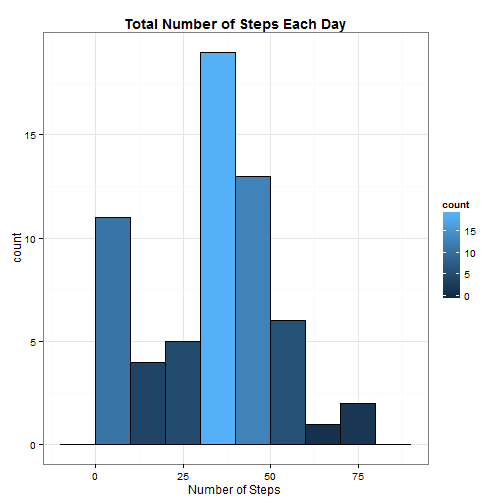
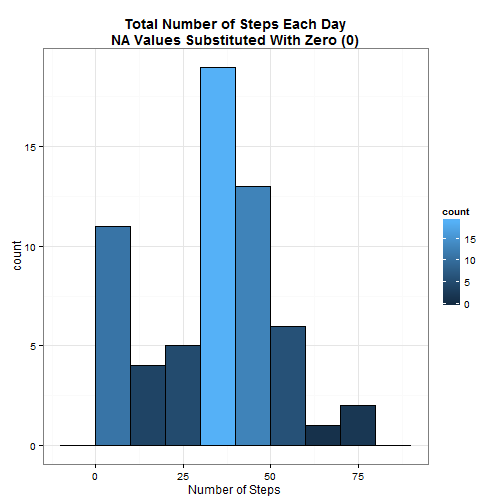
update to grid.arrange

diff --git a/PA1_template.html b/PA1_template.html
@@ -192,13 +192,13 @@ Specialization, offered by Johns Hopkins Bloomberg School of Public Health. The 
 <p>This assignment makes use of data from a personal activity monitoring device. This device collects data at 5 minute intervals through out the day. The data consists of two months of data from an anonymous individual collected during the months of October and November, 2012 and include the number of steps taken in 5 minute intervals each day.</p>
 </blockquote>
 
-<p>The data is provided from this <a href="https://d396qusza40orc.cloudfront.net/repdata%2Fdata%2Factivity.zip">link</a> and was downloaded and extracted to the following directory</p>
+<p>The data set was downloaded from this <a href="https://d396qusza40orc.cloudfront.net/repdata%2Fdata%2Factivity.zip">link</a> and was extracted to the following directory:</p>
 
 <ul>
 <li><code>./data/temp/repdata/</code> </li>
 </ul>
 
-<p>relative to the working directory, with the file named as</p>
+<p>relative to the working directory, with the file named as:</p>
 
 <ul>
 <li><code>activity.csv</code><br/></li>
@@ -206,7 +206,7 @@ Specialization, offered by Johns Hopkins Bloomberg School of Public Health. The 
 
 <p>The file <strong>PA1_template.Rmd</strong> was created and is located in that directory path. </p>
 
-<p>The working environment used is </p>
+<p>The working environment used is: </p>
 
 <ul>
 <li>Windows 7, Service Pack 1 (64 bit)</li>
@@ -216,12 +216,16 @@ Specialization, offered by Johns Hopkins Bloomberg School of Public Health. The 
 
 <h2>Libraries</h2>
 
-<p>Only one library was added for this assignment, which is the <strong>ggplot2</strong> graphics library:</p>
+<p>2 libraries were added for this assignment, which is the <strong>ggplot2</strong> graphics library and the <strong>gridExtra</strong> library:</p>
 
 <pre><code class="r">library(ggplot2)
+library(gridExtra)
 </code></pre>
 
-<p>All plots created in this assignment are <strong>ggplot2</strong> plots, consisting of histograms and time series plots.</p>
+<pre><code>## Loading required package: grid
+</code></pre>
+
+<p>All plots created in this assignment are <strong>ggplot2</strong> plots, consisting of histograms and time series plots.  The <strong>gridExtra</strong> library package allows for grid arrangement of multiple plots created with <strong>ggplot2</strong>.</p>
 
 <h2>Loading the Data</h2>
 
@@ -258,19 +262,22 @@ theData$date &lt;- as.Date(theData$date)
 
 <h2>Answering the Questions</h2>
 
-<p>The assignment consists of 4 sections, each with question(s) to answer with exploratory data analysys, using the downloaded CSV file.</p>
+<p>The following consists of 4 (IV) sections, each with question(s) to answer with exploratory data analysys, using and manipulating the downloaded CSV file.</p>
 
 <h3>I. What is mean total number of steps taken per day?</h3>
 
 <pre><code class="r">histData &lt;- tapply(theData$steps, theData$date, FUN=mean)
+
+p1 &lt;-
 ggplot(as.data.frame(histData), aes(histData)) + 
     geom_histogram(binwidth=10, color=&quot;black&quot;, aes(fill= ..count..)) + 
     theme_bw() + xlab(&quot;Number of Steps&quot;) + 
-    ggtitle(&quot;Total Number of Steps Each Day&quot;) + 
+    ggtitle(&quot;Total Number of Steps Each Day\nNA Values Included&quot;) + 
     theme(plot.title = element_text(face=&quot;bold&quot;))
+p1
 </code></pre>
 
[2 lines of base64/hex data omitted]
 
 <p>Next, looking at the summary of the histogram data,</p>
 
@@ -281,7 +288,7 @@ ggplot(as.data.frame(histData), aes(histData)) +
 ##    0.14   30.70   37.40   37.40   46.20   73.60       8
 </code></pre>
 
-<p>we can see that the Mean and Median values are both 37.38</p>
+<p>we can see that the Mean and Median values are both 37.4.</p>
 
 <h3>II. What is the average daily activity pattern?</h3>
 
@@ -307,7 +314,7 @@ ggplot(intAgg, aes(interval, steps)) + geom_line() +
 
 <h3>III. Missing Values</h3>
 
-<p>In this section, we need to analyze the NA values in the data.  We can quickly see the total NA&#39;s in each variable:</p>
+<p>In this section, we will analyze the NA values in the data. We can quickly see the total NA&#39;s in each variable:</p>
 
 <pre><code class="r">summary(theData)
 </code></pre>
@@ -350,7 +357,7 @@ nrow(theData[theData$date %in% uniqueDate &amp; !is.na(theData$steps),])
 <pre><code>## [1] 0
 </code></pre>
 
-<p>Since the result of this analysis shows that the missing dates do not have values mixed with NA&#39;s, we will substitute all NA values with zero (0):</p>
+<p>Since the result of this analysis shows that the missing dates do not have values mixed with NA&#39;s, and since there is no mean or median of the missing dates to use for substitution, we will substitute all NA values with zero (0):</p>
 
 <pre><code class="r">theData2 &lt;- theData
 theData2$steps &lt;- sapply(theData2$steps, function(i) ifelse(is.na(i), 0, i))
@@ -360,14 +367,16 @@ theData2$steps &lt;- sapply(theData2$steps, function(i) ifelse(is.na(i), 0, i))
 
 <pre><code class="r">histData2 &lt;- tapply(theData2$steps, theData2$date, FUN=mean)
 
+p2 &lt;-
 ggplot(as.data.frame(histData2), aes(histData2)) + 
     geom_histogram(binwidth=10, color=&quot;black&quot;, aes(fill= ..count..)) + 
     theme_bw() + xlab(&quot;Number of Steps&quot;) + 
-    ggtitle(&quot;Total Number of Steps Each Day&quot;) + 
+    ggtitle(&quot;Total Number of Steps Each Day\nNA Values Substituted With Zero (0)&quot;) + 
     theme(plot.title = element_text(face=&quot;bold&quot;))
+p2
 </code></pre>
 
[2 lines of base64/hex data omitted]
 
 <pre><code class="r">summary(histData2)
 </code></pre>
@@ -376,12 +385,19 @@ ggplot(as.data.frame(histData2), aes(histData2)) +
 ##     0.0    23.5    36.1    32.5    44.5    73.6
 </code></pre>
 
-<p>And we can see that the median value is now 36.09, and the mean value is 32.48. Now that we have analyzed the NA values and missing dates, we can answer some questions.</p>
+<p>We can see that the median value is now 36.1, and the mean value is 32.5. Now that we have analyzed the NA values and missing dates, we can answer some questions.</p>
 
 <pre><code class="r">## plot side-by-side both histograms for comparison in answering the next 2 questions
 </code></pre>
 
 <h4>III.1. Do these values differ from the estimates from the first part of the assignment?</h4>
+
+<pre><code class="r">grid.arrange(p1, p2, ncol = 2, 
+             main = grid.text(&quot;Histogram Comparisons - NA Values Included vs. NA Values Substituted&quot;,
+             gp=gpar(cex=1.5, fontface=&quot;bold&quot;)))
+</code></pre>
+
[1 lines of base64/hex data omitted]
 
 <h4>III.2. What is the impact of imputing missing data on the estimates of the total daily number of steps?</h4>
 

diff --git a/PA1_template.md b/PA1_template.md
@@ -8,29 +8,34 @@ Specialization, offered by Johns Hopkins Bloomberg School of Public Health. The 
 
 >This assignment makes use of data from a personal activity monitoring device. This device collects data at 5 minute intervals through out the day. The data consists of two months of data from an anonymous individual collected during the months of October and November, 2012 and include the number of steps taken in 5 minute intervals each day.
 
-The data is provided from this [link](https://d396qusza40orc.cloudfront.net/repdata%2Fdata%2Factivity.zip) and was downloaded and extracted to the following directory
+The data set was downloaded from this [link](https://d396qusza40orc.cloudfront.net/repdata%2Fdata%2Factivity.zip) and was extracted to the following directory:
 * ```./data/temp/repdata/``` 
 
-relative to the working directory, with the file named as
+relative to the working directory, with the file named as:
 * ```activity.csv```  
 
 The file **PA1_template.Rmd** was created and is located in that directory path. 
 
-The working environment used is 
+The working environment used is: 
 * Windows 7, Service Pack 1 (64 bit)
 * RStudio, version 0.98.978 (64 bit)
 * R version 3.1.1 (64 bit).
 
 ## Libraries
 
-Only one library was added for this assignment, which is the **ggplot2** graphics library:
+2 libraries were added for this assignment, which is the **ggplot2** graphics library and the **gridExtra** library:
 
 
 ```r
 library(ggplot2)
+library(gridExtra)
 ```
 
-All plots created in this assignment are **ggplot2** plots, consisting of histograms and time series plots.
+```
+## Loading required package: grid
+```
+
+All plots created in this assignment are **ggplot2** plots, consisting of histograms and time series plots.  The **gridExtra** library package allows for grid arrangement of multiple plots created with **ggplot2**.
 
 ## Loading the Data
 
@@ -74,18 +79,21 @@ Note that the **date** variable was converted to a ```date``` class using ```as.
 
 ## Answering the Questions
 
-The assignment consists of 4 sections, each with question(s) to answer with exploratory data analysys, using the downloaded CSV file.
+The following consists of 4 (IV) sections, each with question(s) to answer with exploratory data analysys, using and manipulating the downloaded CSV file.
 
 ### I. What is mean total number of steps taken per day?
 
 
 ```r
 histData <- tapply(theData$steps, theData$date, FUN=mean)
+
+p1 <-
 ggplot(as.data.frame(histData), aes(histData)) + 
     geom_histogram(binwidth=10, color="black", aes(fill= ..count..)) + 
     theme_bw() + xlab("Number of Steps") + 
-    ggtitle("Total Number of Steps Each Day") + 
+    ggtitle("Total Number of Steps Each Day\nNA Values Included") + 
     theme(plot.title = element_text(face="bold"))
+p1
 ```
 
 ![plot of chunk unnamed-chunk-4](figure/unnamed-chunk-4.png) 
@@ -102,7 +110,7 @@ summary(histData)
 ##    0.14   30.70   37.40   37.40   46.20   73.60       8
 ```
 
-we can see that the Mean and Median values are both 37.38
+we can see that the Mean and Median values are both 37.4.
 
 ### II. What is the average daily activity pattern?
 
@@ -133,7 +141,7 @@ intAgg[intAgg$steps==max(intAgg$steps),]
 
 ### III. Missing Values
 
-In this section, we need to analyze the NA values in the data.  We can quickly see the total NA's in each variable:
+In this section, we will analyze the NA values in the data. We can quickly see the total NA's in each variable:
 
 
 ```r
@@ -184,7 +192,7 @@ nrow(theData[theData$date %in% uniqueDate & !is.na(theData$steps),])
 ## [1] 0
 ```
 
-Since the result of this analysis shows that the missing dates do not have values mixed with NA's, we will substitute all NA values with zero (0):
+Since the result of this analysis shows that the missing dates do not have values mixed with NA's, and since there is no mean or median of the missing dates to use for substitution, we will substitute all NA values with zero (0):
 
 
 ```r
@@ -197,12 +205,14 @@ Now that we have a new data set with all the NA values substituted with the valu
 
 ```r
 histData2 <- tapply(theData2$steps, theData2$date, FUN=mean)
-  
+
+p2 <-
 ggplot(as.data.frame(histData2), aes(histData2)) + 
     geom_histogram(binwidth=10, color="black", aes(fill= ..count..)) + 
     theme_bw() + xlab("Number of Steps") + 
-    ggtitle("Total Number of Steps Each Day") + 
+    ggtitle("Total Number of Steps Each Day\nNA Values Substituted With Zero (0)") + 
     theme(plot.title = element_text(face="bold"))
+p2
 ```
 
 ![plot of chunk unnamed-chunk-11](figure/unnamed-chunk-11.png) 
@@ -216,7 +226,7 @@ summary(histData2)
 ##     0.0    23.5    36.1    32.5    44.5    73.6
 ```
 
-And we can see that the median value is now 36.09, and the mean value is 32.48. Now that we have analyzed the NA values and missing dates, we can answer some questions.
+We can see that the median value is now 36.1, and the mean value is 32.5. Now that we have analyzed the NA values and missing dates, we can answer some questions.
 
 
 ```r
@@ -224,6 +234,14 @@ And we can see that the median value is now 36.09, and the mean value is 32.48. 
 ```
 #### III.1. Do these values differ from the estimates from the first part of the assignment? 
 
+
+```r
+grid.arrange(p1, p2, ncol = 2, 
+             main = grid.text("Histogram Comparisons - NA Values Included vs. NA Values Substituted",
+             gp=gpar(cex=1.5, fontface="bold")))
+```
+
+![plot of chunk histograms](figure/histograms.png) 
 
 #### III.2. What is the impact of imputing missing data on the estimates of the total daily number of steps?
 
